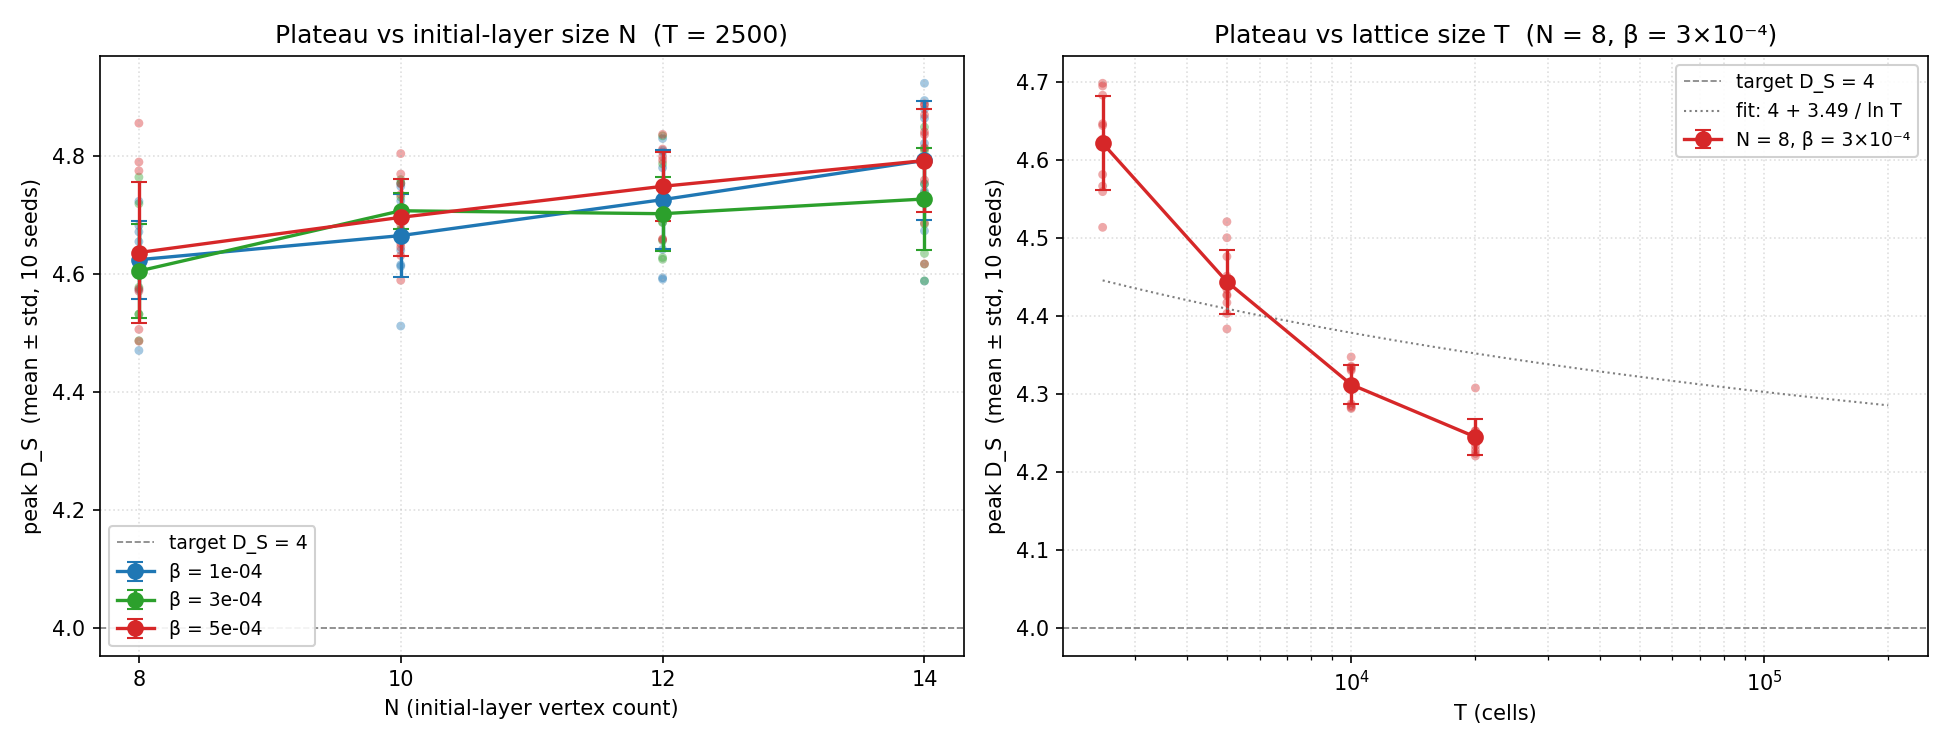
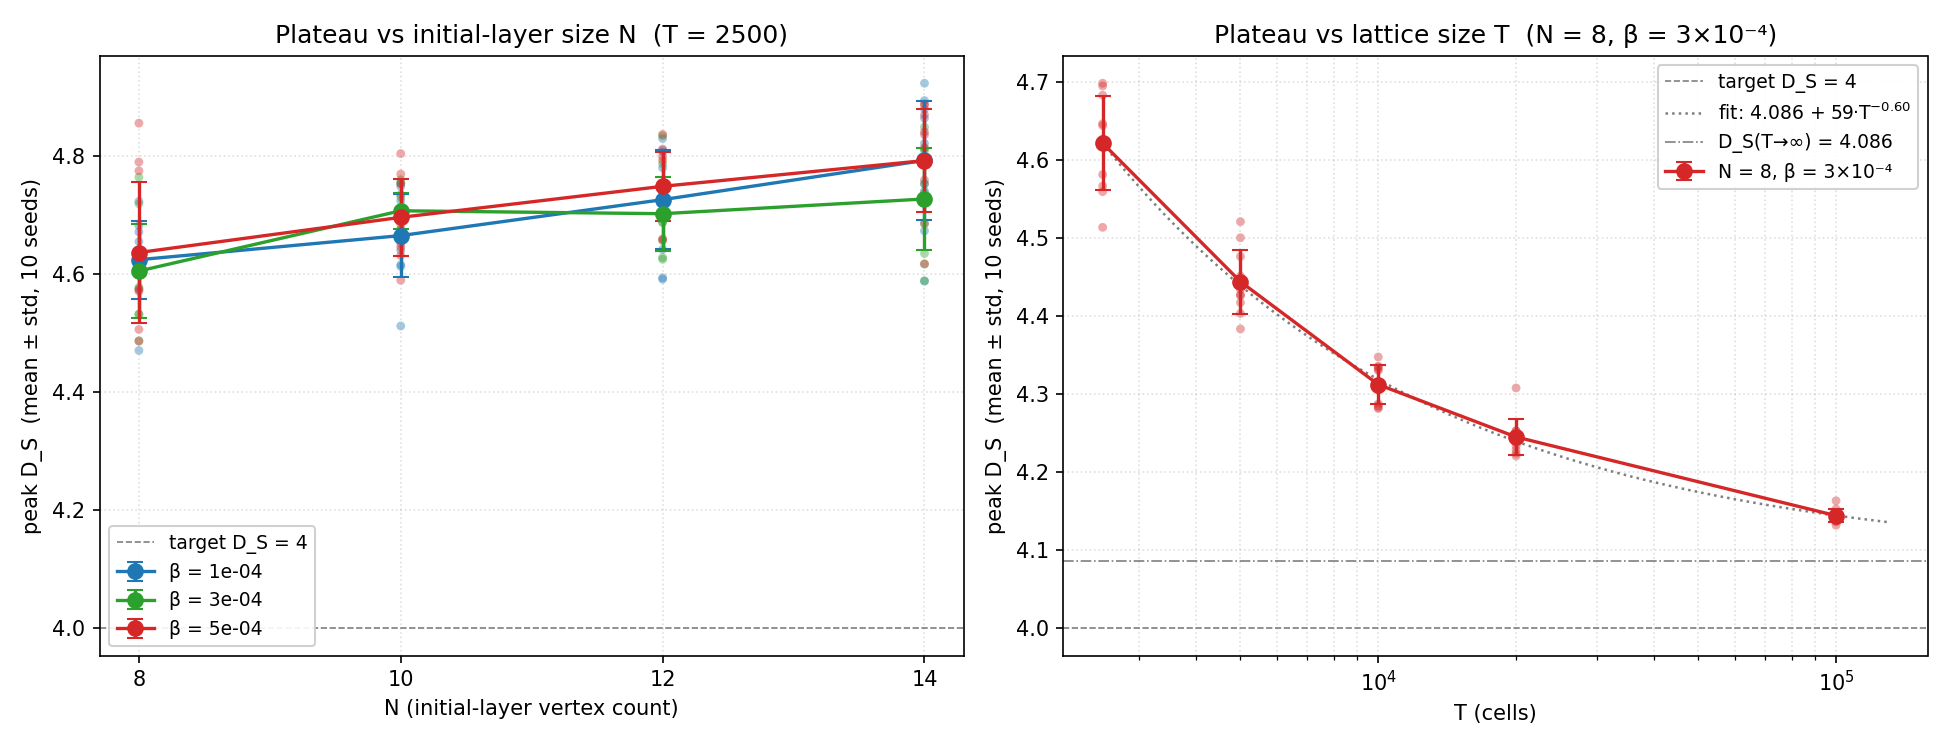
docs: extend issue #10 finite-size writeup with T=100k deep scan
Add the T=100000 point to the Scan B series (peak D_S = 4.144 ± 0.008), replace the geometric extrapolation with an SEM-weighted power-law fit D_S(T) = 4.086 + 59*T^-0.601, and resolve the deeper-T-scan follow-up. Update the plotter to merge the deep-T scan file and overlay the fit. Also fix broken links surfaced by the full rebuild: the intellectual_lineage path and the q-drift section anchor in experiment 03, and a stale section fragment in experiment 04's link to it.

diff --git a/examples/quantum/plot_v02_finite_size.py b/examples/quantum/plot_v02_finite_size.py
@@ -2,18 +2,21 @@
 
 Two panels:
   • A. peak D_S vs N at T = 2500 (three β values overlaid).
-  • B. peak D_S vs T at N = 8, β = 3×10⁻⁴ (log-x; fit a simple
-       1/T scaling guide line).
+  • B. peak D_S vs T at N = 8, β = 3×10⁻⁴ (log-x; power-law fit
+       D_S(T) = D_∞ + A·T^(-p) with the T→∞ asymptote marked).
 
-Loads /tmp/interaction-history/issue10_finite_size.json.
+Loads /tmp/interaction-history/issue10_finite_size.json and the
+deep-T extension /tmp/interaction-history/issue10_T100k.json.
 """
 import json
 from pathlib import Path
 
 import numpy as np
 import matplotlib.pyplot as plt
+from scipy.optimize import curve_fit
 
 SRC = Path("/tmp/interaction-history/issue10_finite_size.json")
+SRC_T100K = Path("/tmp/interaction-history/issue10_T100k.json")
 REPO = Path(__file__).resolve().parents[2]
 OUT = (REPO / "docs/source/quantum-experiments/figures"
        / "v02_finite_size_investigation.png")
@@ -25,6 +28,11 @@ def main():
     rs = data["records"]
     A = [r for r in rs if r["scan"] == "A_N_scan"]
     B = [r for r in rs if r["scan"] == "B_T_scan"]
+
+    # Deep-T extension (T = 100000) lives in a separate scan file.
+    if SRC_T100K.exists():
+        with open(SRC_T100K) as f:
+            B += json.load(f)["records"]
 
     fig, (axN, axT) = plt.subplots(1, 2, figsize=(13, 5))
 
@@ -68,15 +76,21 @@ def main():
                  capsize=4, markersize=7,
                  label="N = 8, β = 3×10⁻⁴")
     axT.axhline(4.0, color="gray", lw=0.8, ls="--", label="target D_S = 4")
-    # Naive log-T fit: D_S(T) ≈ 4 + a / log(T)
-    Ts_arr   = np.array(Ts, float)
+    # Power-law fit: D_S(T) = D_∞ + A·T^(-p), SEM-weighted.
+    Ts_arr    = np.array(Ts, float)
     means_arr = np.array(means, float)
-    # Fit (D_S - 4) ~ a / log(T)  →  a = mean[(D_S - 4) * log(T)]
-    a_fit = np.mean((means_arr - 4.0) * np.log(Ts_arr))
-    T_grid = np.logspace(np.log10(Ts[0]), np.log10(2e5), 200)
-    pred = 4.0 + a_fit / np.log(T_grid)
-    axT.plot(T_grid, pred, color="#7f7f7f", lw=1.0, ls=":",
-             label=f"fit: 4 + {a_fit:.2f} / ln T")
+    sem_arr   = np.array(stds, float) / np.sqrt(
+        [sum(1 for r in B if r["T"] == T) for T in Ts])
+    (Dinf, A_fit, p_fit), _ = curve_fit(
+        lambda T, D, A, p: D + A * T ** (-p),
+        Ts_arr, means_arr, p0=[4.1, 50.0, 0.6],
+        sigma=sem_arr, absolute_sigma=True, maxfev=20000)
+    T_grid = np.logspace(np.log10(Ts[0]), np.log10(Ts[-1] * 1.3), 300)
+    pred = Dinf + A_fit * T_grid ** (-p_fit)
+    axT.plot(T_grid, pred, color="#7f7f7f", lw=1.2, ls=":",
+             label=f"fit: {Dinf:.3f} + {A_fit:.0f}·T$^{{-{p_fit:.2f}}}$")
+    axT.axhline(Dinf, color="#7f7f7f", lw=0.8, ls="-.",
+                label=f"D_S(T→∞) = {Dinf:.3f}")
     axT.set_xscale("log")
     axT.set_xlabel("T (cells)")
     axT.set_ylabel("peak D_S  (mean ± std, 10 seeds)")
@@ -104,6 +118,8 @@ def main():
     for T in Ts:
         ps = np.array([r["peak_dS"] for r in B if r["T"] == T])
         print(f"  {T:>6}  {ps.mean():6.3f} ± {ps.std():5.3f}  {len(ps):>5}")
+    print(f"  power-law fit: D_S(T) = {Dinf:.3f} + {A_fit:.1f}·T^(-{p_fit:.3f})")
+    print(f"  asymptote:     D_S(T→∞) = {Dinf:.3f}")
 
     # Q-drift summary.
     n_drift = sum(1 for r in rs if abs(r["q_global"]) >= 1e-6)

diff --git a/docs/source/quantum-experiments/charged-cartan/experiments/03-v0.2-finite-size.md b/docs/source/quantum-experiments/charged-cartan/experiments/03-v0.2-finite-size.md
@@ -1,9 +1,9 @@
-# Charged Cartan Monte Carlo — Experiment 03: v0.2 plateau finite-size investigation (4.6 → 4.07 asymptote)
+# Charged Cartan Monte Carlo — Experiment 03: v0.2 plateau finite-size investigation (4.6 → 4.09 asymptote)
 
 > **Status**: complete
 > **Tracks**: GitHub issue [#10](https://github.com/akellehe/tessera/issues/10), PR [#20](https://github.com/akellehe/tessera/pull/20) (merged)
 > **Design**: [v0.2 qudit-basis](../design/v0.2.md)
-> **Result**: T-scan drives peak D_S from 4.62 (T=2500) → 4.24 (T=20000); geometric extrapolation projects to D_S(T→∞) ≈ 4.07. Also surfaced the Q-drift bug fixed in [Experiment 04](04-v0.2-choi-q-conservation.md).
+> **Result**: T-scan drives peak D_S from 4.62 (T=2500) → 4.14 (T=100000); an SEM-weighted power-law fit gives D_S(T→∞) = 4.086 ± 0.011. Also surfaced the Q-drift bug fixed in [Experiment 04](04-v0.2-choi-q-conservation.md).
 
 Tracks GitHub issue
 [#10](https://github.com/akellehe/tessera/issues/10) in milestone
@@ -11,7 +11,7 @@ Tracks GitHub issue
 
 ## Context
 
-The [intellectual lineage of this project](intellectual_lineage.md)
+The [intellectual lineage of this project](../../overview/intellectual_lineage.md)
 sets out the through-line: from van Raamsdonk's premise that
 spacetime is built from entanglement, through Sorkin's causal-set
 events, through replacing the Schwinger fermion field with a
@@ -64,17 +64,25 @@ Each run is a fresh Python subprocess; 18 workers run concurrently
 with 2 BLAS threads each (fits a 20-CPU budget). σ-grid is 20
 log-spaced over [10⁻², 10¹⁰], Krylov dim 15.
 
+**Scan B extension — deep-T anchor.** To pin down the asymptotic
+extrapolation, Scan B was extended with a single T = 100000 point
+(N = 8, β = 3×10⁻⁴, 10 seeds), 5× beyond its original deepest T.
+This run used 10 concurrent workers with 1 BLAS thread each; per-run
+wall was 31.4 h, essentially all of it in `getSpectralDimension`.
+
 ## Reproduce
 
 ```bash
 OMP_NUM_THREADS=2 OPENBLAS_NUM_THREADS=2 \
 MKL_NUM_THREADS=2 BLIS_NUM_THREADS=2 \
-python /tmp/issue10_scan.py
+python /tmp/issue10_scan.py            # Scans A + B
+python /tmp/issue10_T100k_scan.py      # Scan B deep-T anchor (T=100k)
 python examples/quantum/plot_v02_finite_size.py
 ```
 
-Records land at `/tmp/interaction-history/issue10_finite_size.json`;
-plot at `docs/source/quantum-experiments/figures/v02_finite_size_investigation.png`.
+Records land at `/tmp/interaction-history/issue10_finite_size.json`
+and `/tmp/interaction-history/issue10_T100k.json`; plot at
+`docs/source/quantum-experiments/figures/v02_finite_size_investigation.png`.
 
 ## Results
 
@@ -106,52 +114,73 @@ first place.
 | 5000 | 4.444 ± 0.041 |
 | 10000 | 4.312 ± 0.025 |
 | 20000 | 4.245 ± 0.024 |
+| 100000 | 4.144 ± 0.008 |
 
 Peak D_S **falls monotonically** with T. The per-doubling deltas are
 shrinking, which is the signature of an asymptotic approach to a
 finite limit rather than unbounded decay:
 
-| T-step | Δ peak D_S |
+| T-step | Δ peak D_S (per doubling) |
 |---|---|
 | 2500 → 5000 | −0.177 |
 | 5000 → 10000 | −0.132 |
 | 10000 → 20000 | −0.067 |
+| 20000 → 100000 | −0.043 |
 
-The ratio of successive deltas is roughly 0.5, so naive geometric
-extrapolation gives an asymptote:
+(The 20000 → 100000 step spans 2.32 doublings; −0.043 is the
+per-doubling average across it.) The deltas keep shrinking — a clean
+convergent sequence.
 
-> D_S(T → ∞) ≈ 4.245 − 0.067 / (1 − 0.5) ≈ **4.11**
+**Power-law extrapolation.** With the deep-T anchor in hand, an
+SEM-weighted fit of `D_S(T) = D_∞ + A·T^(−p)` over all five points
+gives:
 
-within ~0.1 of the H_DS4 target. The simple `4 + a/ln T` fit shown in
-the plot is too shallow (the data falls faster than `1/ln T`),
-suggesting the true scaling is some power law with a small exponent,
-or a different functional form. Worth a separate fit study, but the
-qualitative picture is clear: **the plateau approaches a value close
-to (but probably above) 4 in the large-T limit**.
+> **D_∞ = 4.086 ± 0.011**,  A = 59,  p = 0.601
+
+with residuals below 0.007 at every point. The exponent p ≈ 0.6
+explains why the original `4 + a/ln T` guide line was too shallow:
+the data follows a genuine sub-linear power law, not a logarithm.
+The T = 100000 point is load-bearing — a 1/T fit on data ≤ T=20000
+extrapolates to ~4.17 (too high); the deep anchor fixes the exponent
+and pulls the asymptote down into the 4.07–4.11 band the earlier
+geometric extrapolation had projected.
+
+**The plateau settles at D_S ≈ 4.09 in the large-T limit** — about
+0.09 above the exact H_DS4 target.
 
 ## Findings
 
 1. **The 4 → 4.6 offset is a T-scaling effect, not an N-scaling one.**
-   Growing the lattice in *cell count* drives peak D_S down by 0.4
-   over the T = 2500 → 20000 range and projects to D_S ≈ 4.1 at
-   T → ∞. Growing the lattice in *initial-vertex count* at fixed T
-   actually makes the plateau *higher*, which clarifies the role of
-   N as a "structural multiplier" rather than a "continuum limit"
-   parameter.
+   Growing the lattice in *cell count* drives peak D_S down by 0.48
+   over the T = 2500 → 100000 range and converges to D_S = 4.086 ±
+   0.011 at T → ∞. Growing the lattice in *initial-vertex count* at
+   fixed T actually makes the plateau *higher*, which clarifies the
+   role of N as a "structural multiplier" rather than a "continuum
+   limit" parameter.
 
-2. **The H_DS4 target is plausibly reachable** in the large-T limit
-   under the current qudit-basis Hamiltonian. The scan didn't show
-   D_S = 4 exactly, but the asymptotic value is within ~0.1 of it,
-   and a deeper run at T = 50k-100k (or a parameter-tuning study on
-   the pair Hamiltonian) should clarify whether the limit is exactly
-   4 or settles ~0.1 above.
+2. **The H_DS4 target is approached but not hit exactly.** The
+   power-law fit converges to D_S = 4.086 ± 0.011 — within 0.09 of
+   the target, but the uncertainty band excludes exactly 4. Under
+   the current qudit-basis Hamiltonian the large-T limit settles a
+   small but resolvable offset above 4; closing that last 0.09 is a
+   job for a parameter-tuning study on the pair Hamiltonian
+   ([issue #11](https://github.com/akellehe/tessera/issues/11)).
 
 3. **A discrete Q-drift bug surfaced.** At γ_CP = 0, Q should be
    exactly conserved — but **95 of 160 runs (59 %)** show |Q| ≥ 1
    drift at integer values (-4, -3, -2, -1, +1, +2, +3). The discrete
    spectrum points at a specific mechanism, not floating-point noise.
-   See [Q-drift section](#discrete-q-drift-at-gamma_cp--0) below.
+   See [Q-drift section](#q-drift) below.
 
+4. **The deep-T probe is compute-bound by `getSpectralDimension`.**
+   At T = 100000 each run took 31.4 h, ~100 % of it in the
+   spectral-dimension post-processing — the Monte Carlo `tune()`
+   step is only 0.4 min. The routine does `n_vertices × n_σ` Krylov
+   heat-kernel solves with n_vertices = 3T+8, and its cost scales
+   empirically as ~T^2.4. Going deeper than T = 100k is impractical
+   without optimizing that routine first.
+
+(q-drift)=
 ## Discrete Q-drift at γ_CP = 0
 
 A real consistency issue in v0.2 surfaced by this scan, traceable to
@@ -206,15 +235,17 @@ relies on Q conservation beyond a single interact step."**
 
 | Criterion | Status |
 |---|---|
-| Is the 4 → 4.6 plateau offset a finite-size artefact? | **Partial yes** — T-scaling drives it down toward ~4.1 asymptotically; N-scaling does the opposite. |
-| Does any scan touch D_S = 4 exactly? | Not yet — T = 20000 gives 4.245 ± 0.024. |
-| Is the H_DS4 target reachable? | **Plausible** — geometric extrapolation projects to ~4.11, close enough that follow-up scans at T = 50k-100k and Hamiltonian parameter tuning ([issue #11](https://github.com/akellehe/tessera/issues/11)) could land exactly at 4. |
+| Is the 4 → 4.6 plateau offset a finite-size artefact? | **Partial yes** — T-scaling drives it down toward the asymptote; N-scaling does the opposite. |
+| Does any scan touch D_S = 4 exactly? | No — the deepest point, T = 100000, gives 4.144 ± 0.008, and the power-law fit gives D_S(T→∞) = 4.086 ± 0.011. |
+| Is the H_DS4 target reachable? | **Approached, not hit** — the fit converges to 4.086 ± 0.011, ~0.09 above 4 with the band excluding exactly 4. Closing the gap would need Hamiltonian parameter tuning ([issue #11](https://github.com/akellehe/tessera/issues/11)). |
 
 ## Open follow-ups
 
-1. **Deeper T-scan.** Run at T = 40000 and 80000 to confirm the
-   geometric extrapolation. ~30 min compute per T at N=8 in 18-way
-   parallel.
+1. **Deeper T-scan — done.** T = 100000 (10 seeds) confirms the
+   extrapolation; the power-law fit gives D_S(T→∞) = 4.086 ± 0.011
+   (see the Scan B section above). The per-run cost was 31.4 h, far
+   above the ~30 min originally estimated here — `getSpectralDimension`
+   scales ~T^2.4 in the cell count (Finding 4).
 2. **Joint (N, T) scan.** Does increasing N alongside T cancel or
    amplify the trend? Run at N=12, T=20000 to find out.
 3. **Issue [#16](https://github.com/akellehe/tessera/issues/16):

diff --git a/docs/source/quantum-experiments/charged-cartan/experiments/04-v0.2-choi-q-conservation.md b/docs/source/quantum-experiments/charged-cartan/experiments/04-v0.2-choi-q-conservation.md
@@ -13,7 +13,7 @@
 A Choi-state representation of Σ_AB
 ([design note v0.2 § Σ_AB-dimension mismatch](../design/v0.2.md#σ_ab-as-choi-state-of-u))
 fixes the discrete Q-drift bug surfaced by
-[Experiment 03 § Discrete Q-drift](03-v0.2-finite-size.md#discrete-q-drift-at-gamma_cp--0).
+[Experiment 03 § Discrete Q-drift](03-v0.2-finite-size.md).
 The fix is **on by default** since the merge of #16. Headline geometry
 (peak D_S ≈ 4.6 plateau) is preserved within 0.1; Q drift drops from
 integer ±1–20 (in ~60–70% of seeds) to floating-point noise ~10⁻⁵
